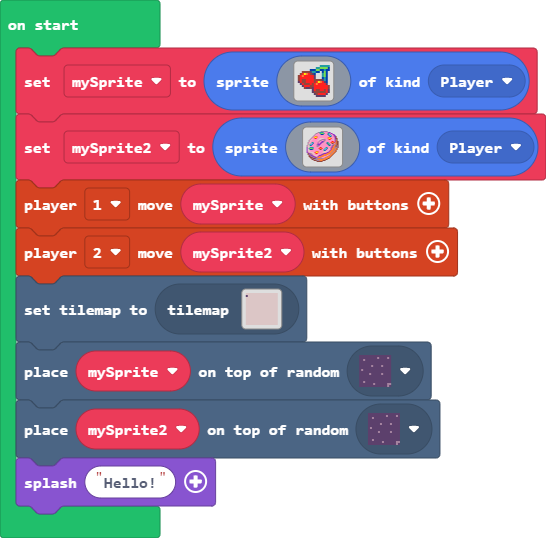
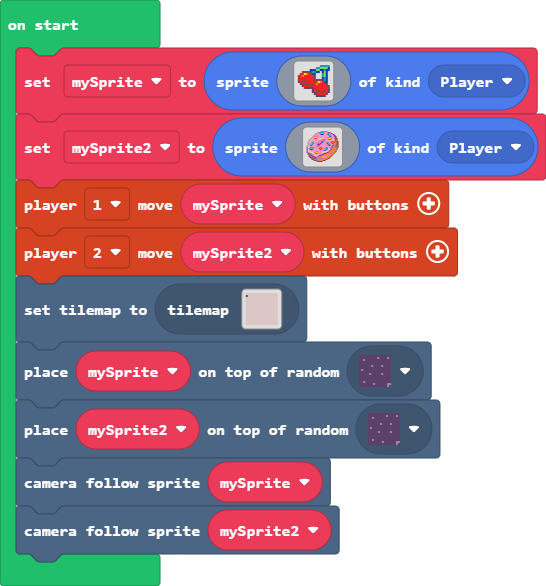
Update main.blocks, main.ts

diff --git a/main.ts b/main.ts
@@ -55,4 +55,5 @@ controller.player2.moveSprite(mySprite2)
 tiles.setCurrentTilemap(tilemap`level1`)
 tiles.placeOnRandomTile(mySprite, sprites.dungeon.darkGroundNorthWest1)
 tiles.placeOnRandomTile(mySprite2, sprites.dungeon.darkGroundNorthWest1)
-game.splash("Hello!")
+scene.cameraFollowSprite(mySprite)
+scene.cameraFollowSprite(mySprite2)
